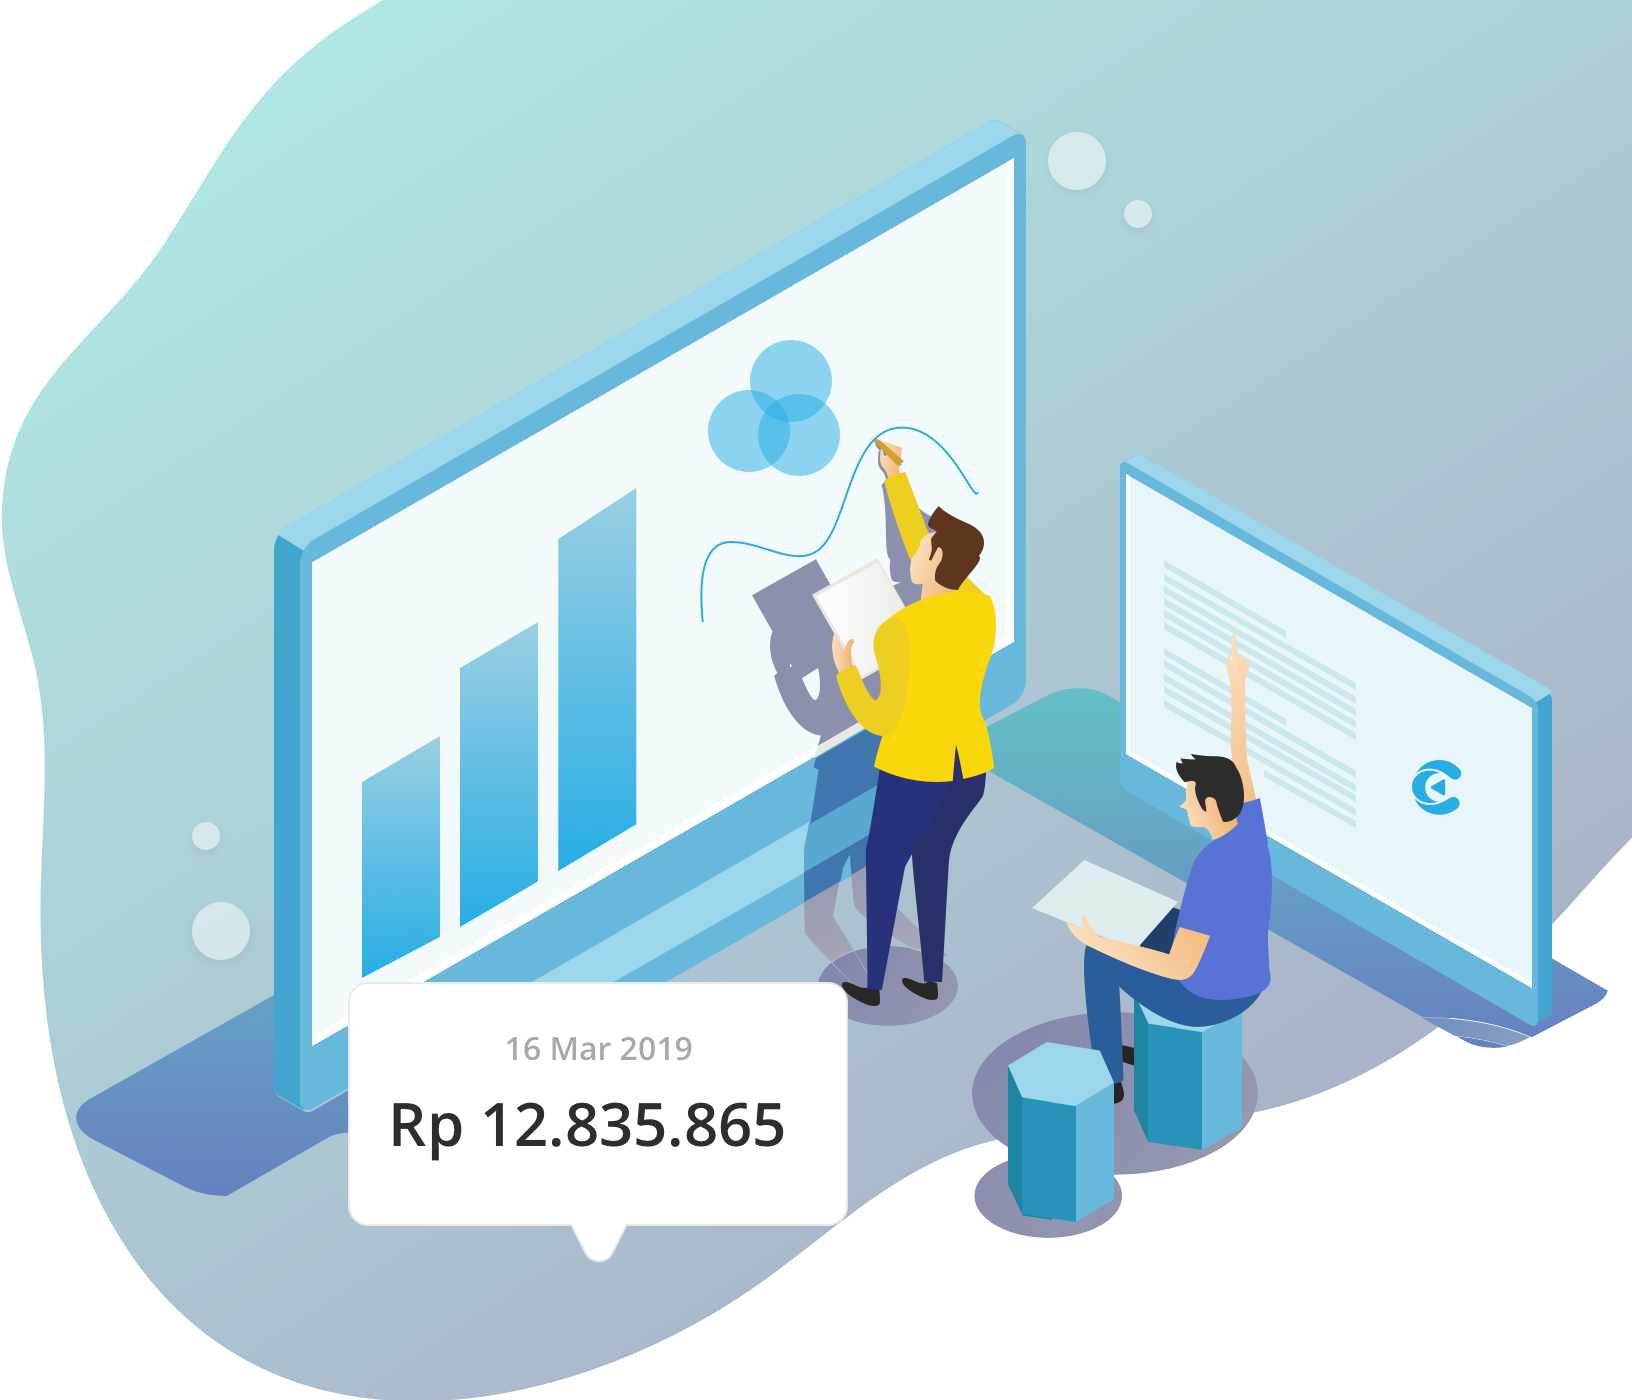
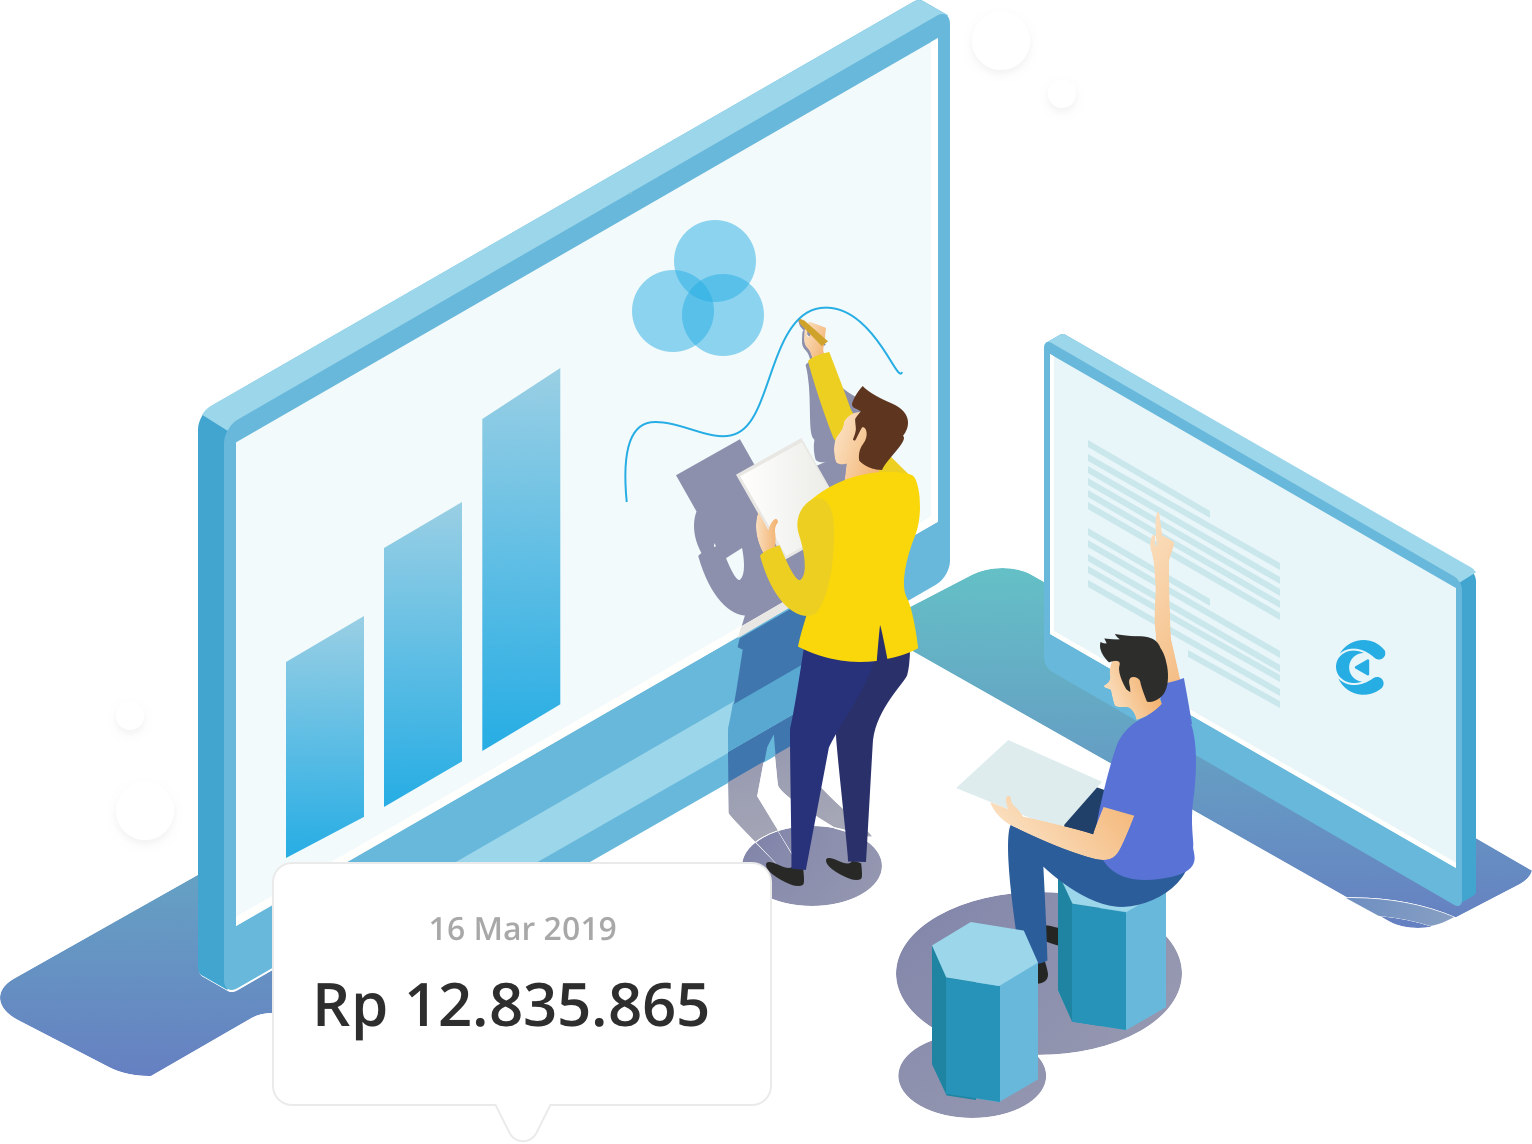
change hero image to illustration and add press coverage section

diff --git a/src/components/hero.js b/src/components/hero.js
@@ -2,6 +2,8 @@ import React from 'react';
 import { Link } from 'gatsby';
 import buttonGooglePlay from '../images/google_badge_en_get.svg';
 import buttonAppStore from '../images/appstore_badge_en.svg';
+import consumerIllustration from '../images/cashbac-for-consumers-illustration.png';
+
 // import 'bulma';
 // import heroBusiness from '../images/slider/cashbac-business-hero.png';
 // import Navbar from './navbar';
@@ -15,10 +17,10 @@ const Hero = ({ siteTitle }) => (
 		<div>
 			<div className="has-text-centered-mobile">
 	      		<h1 className="title hero-title-homepage has-text-centered-mobile">
-	      		Easiest way to get instant cashback. Anytime. Anywhere.
+	      		Most effortless way to get instant cashback. Anytime. Anywhere.
 	      		</h1>
 	      		<p className="subtitle has-text-centered-mobile has-text-centered-mobile">
-	      		Cashbac is a free mobile app that gives you instant cashback for every transaction at your favorite merchants, setting you free from many hassles in getting promos and rewarding yourself.
+	      		Cashbac is a free mobile app that gives you instant cashback for every transaction and allows you to earn multiple rewards from a variety of partners.
 	      		</p>
 	      		<div>
 					<a href="https://cashbac.onelink.me/1sXQ/homepage">
@@ -37,17 +39,23 @@ const Hero = ({ siteTitle }) => (
 
 {/* DESKTOP AND TABLET HERO*/}
 
+
+	
 	<section className="section has-text-left-tablet has-text-left-desktop is-hidden-mobile" id="hero-homepage">
-		
+			
+			<div>
+				<img src={consumerIllustration} alt="The Best Promos Around You" className="hero-illustration"/>
+		    </div>
+
 			<div>
 	      		<div className="container">
 		      		<div className="columns">
 			      		<div className="column">
 			      		<h1 className="hero-title-homepage has-text-left-tablet has-text-left-desktop title">
-			      		Easiest way to get instant cashback. Anytime. Anywhere.
+			      		Most effortless way to get instant cashback. Anytime. Anywhere.
 			      		</h1>
 			      		<p className="hero-subtitle-homepage has-text-left-tablet has-text-left-desktop has-text-centered-tablet subtitle">
-			      		Cashbac is a free mobile app that gives you instant cashback for every transaction at your favorite merchants, setting you free from many hassles in getting promos and rewarding yourself.
+			      		Cashbac is a free mobile app that gives you instant cashback for every transaction and allows you to earn multiple rewards from a variety of partners.
 			      		</p>
 				      		<div>
 								<a href="https://cashbac.onelink.me/1sXQ/homepage">
@@ -59,11 +67,7 @@ const Hero = ({ siteTitle }) => (
 								</a>
 							</div>
 					</div>
-					<div className="column">
-					NANTI GAMBAR DISINI
-		      		
-
-		      		</div>
+					
 	      		<hr className="spacer is-2"></hr>
 	      		</div>
 	      	</div>

diff --git a/src/components/press.js b/src/components/press.js
@@ -1,0 +1,66 @@
+import React from 'react';
+import dailysocialLogo from '../images/DailySocial-Logo-Grey.png';
+import techinasiaLogo from '../images/Tech-In-Asia-Logo.png';
+
+const Press = () => (
+
+		<div>
+		<section className="section" id="featured-merchants">
+			<div className="container">
+			
+					<h1 className="title has-text-centered-desktop has-text-centered-mobile has-text-centered-tablet">
+						As seen in:
+					</h1>
+			
+			</div>
+			
+			<br/>
+
+			<div className="container has-text-centered-mobile has-text-centered-desktop">
+				<div className="tile columns is-multiline is-mobile is-tablet is-ancestor">
+					<div className="tile column is-6-mobile is-2-desktop is-2-table is-parent ">
+					    <article className="tile is-child">
+					      <img alt="Merchant Mc. Donald" src={techinasiaLogo} id="featured-logo"/>
+					    </article>
+					</div>
+					
+					<div className="tile column is-6-mobile is-2-desktop is-2-table is-parent">
+					    <article className="tile is-child">
+					      <img alt="Merchant FamilyMart" src={dailysocialLogo} id="featured-logo"/>
+					    </article>
+					</div>
+										<div className="tile column is-6-mobile is-2-desktop is-2-table is-parent ">
+					    <article className="tile is-child">
+					      <img alt="Merchant Mc. Donald" src={techinasiaLogo} id="featured-logo"/>
+					    </article>
+					</div>
+					
+					<div className="tile column is-6-mobile is-2-desktop is-2-table is-parent">
+					    <article className="tile is-child">
+					      <img alt="Merchant FamilyMart" src={dailysocialLogo} id="featured-logo"/>
+					    </article>
+					</div>
+					<div className="tile column is-6-mobile is-2-desktop is-2-table is-parent ">
+					    <article className="tile is-child">
+					      <img alt="Merchant Mc. Donald" src={techinasiaLogo} id="featured-logo"/>
+					    </article>
+					</div>
+					
+					<div className="tile column is-6-mobile is-2-desktop is-2-table is-parent">
+					    <article className="tile is-child">
+					      <img alt="Merchant FamilyMart" src={dailysocialLogo} id="featured-logo"/>
+					    </article>
+					</div>
+
+					
+				</div>
+			
+
+	</div>
+
+	</section>
+	</div>
+
+	);
+
+export default Press;

diff --git a/src/styles/styles.scss b/src/styles/styles.scss
@@ -68,9 +68,6 @@
 
 }
 
-
-
-
 	.faq {
 		color: $cashbac-primary;
 		font-weight: bold;
@@ -85,9 +82,9 @@
 	padding-bottom: 4rem;
 	figure {
 		justify-content: center;
-		align-items: top;
+		align-items: center;
 		display: flex;
-		min-height: 150px;
+		min-height: 135px;
 	}
 	h5 {
 		color: $cashbac-primary;
@@ -224,8 +221,16 @@
 	background: linear-gradient(277deg, #63c7c5, #5c8cc9 75%, #6273b7);
 }
 
+
+.hero-illustration {
+	width: 550px;
+	position: absolute;
+	right: 20px;
+	bottom: 100px;
+}
+
 #hero-homepage {
-	background: url('../images/slider/hero-cashbac-bg.png');
+	background-image: linear-gradient(#BCEDE8, #AAB3C8);
 	height: 100%;
 	min-height: 720px;
 	position: relative;
@@ -235,7 +240,8 @@
 
   	.hero-title-homepage {
   		color: white;
-		font-size: 55px;
+		font-size: 35px;
+		max-width: 450px;
 		margin-top: 170px;
 		width: 900px;
 		text-shadow: 0 5px 15px rgba(0, 0, 0, 0.5);
@@ -244,7 +250,8 @@
 
 	.hero-subtitle-homepage {
   		color: white;
-		font-size: 26px;
+		font-size: 18px;
+		max-width: 430px;
 		margin-top: 30px;
 		width: 900px;
 		text-shadow: 0 5px 15px rgba(0, 0, 0, 0.5);
@@ -254,7 +261,7 @@
 
 
 #hero-homepage-mobile {
-	background: url('../images/slider/hero-cashbac-bg.png');
+	background-image: linear-gradient(#BCEDE8, #AAB3C8);
 	height: 100%;
 	min-height: 720px;
 	position: relative;

diff --git a/src/components/businessform.js b/src/components/businessform.js
@@ -130,7 +130,7 @@ class Businessform extends Component {
 					<div id="mc_embed_signup" style={{ StyleForm }}>
 						<form onSubmit={this.handleSubmit} action="https://cashbac.us17.list-manage.com/subscribe/post?u=3f44c3c094349bbc733eb377c&amp;id=89d454641c" method="post" id="mc-embedded-subscribe-form" name="mc-embedded-subscribe-form" className="validate" target="_blank" noValidate>
 							<div id="mc_embed_signup_scroll">
-								<div className="indicates-required"><span className="asterisk">*</span> indicates required</div>
+								<div className="indicates-required"><span className="asterisk">*</span> indicates field required</div>
 								<div className="mc-field-group">
 									<label htmlFor="mce-FNAME">First Name <span className="asterisk">*</span>
 									</label>

diff --git a/src/components/layout.js b/src/components/layout.js
@@ -5,6 +5,7 @@ import Hero from './hero';
 import Features from '../components/features';
 import Workstab from './workstab';
 import Merchants from './merchants';
+import Press from './press';
 import Footer from './footer';
 
 
@@ -16,6 +17,7 @@ const Layout = ({ children }) => (
 		<Features />
 		<Workstab />
 		<Merchants />
+		<Press />
 		<Footer />
 	</div>
 );
